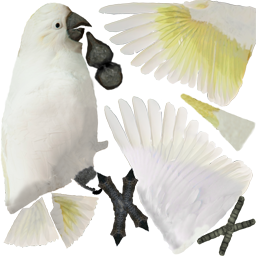
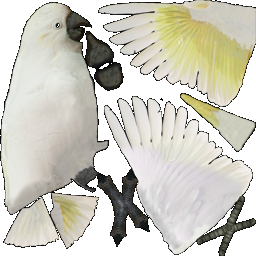
Assimp hack

diff --git a/examples/01.HelloWorld/main.cpp b/examples/01.HelloWorld/main.cpp
@@ -172,11 +172,13 @@ int main()
 
     c8* files[] =
     {
-        "../../media/hi-2.DAE",
+        "../../media/Cockatoo/Cockatoo.FBX",
     };
     c8* textures[] =
     {
-        "../../media/3/fire.png",
+        //"../../media/metaioman.png",
+        "../../media/Cockatoo/Cockatoo_D.png",
+
     };
     IAnimatedMeshSceneNode* head = 0;
     const float kCamDistZ = 40;
@@ -216,11 +218,11 @@ int main()
         float newScale = kCamDistZ * 0.5f / rad;
         //node->setScale(core::vector3df(newScale));
         f32 k = 10000;
-        node->setScale({ k, k, k });
+        //node->setScale({ k, k, k });
 
         node->setMaterialFlag(video::EMF_LIGHTING, false);
         //node->setMaterialFlag(video::EMF_BLEND_OPERATION, true);
-        //node->setMaterialType(video::EMT_TRANSPARENT_ADD_COLOR);
+        node->setMaterialType(video::EMT_TRANSPARENT_ALPHA_CHANNEL);
         node->setDebugDataVisible(scene::EDS_SKELETON);
         node->setMaterialTexture(0, driver->getTexture(textures[0]));
 

diff --git a/examples/SynthFlow/main.cpp b/examples/SynthFlow/main.cpp
@@ -513,7 +513,7 @@ int main()
         "../../media/Belgium_block_pxr128.jpg",
         "../../media/Slag_stone_pxr128.jpg",
         "../../media/dwarf.jpg",
-        //"../../media/Cockatoo/Cockatoo_D.png",
+        "../../media/Cockatoo/Cockatoo_D.png",
     };
 
     auto mani = driver->getMeshManipulator();

diff --git a/source/assimp/code/FBXConverter.cpp b/source/assimp/code/FBXConverter.cpp
@@ -2100,7 +2100,7 @@ private:
             if(!target) {
                 target = node->Target();
             }
-            ai_assert(node->Target() == target);
+            // ai_assert(node->Target() == target);
         }}
 #endif
 
